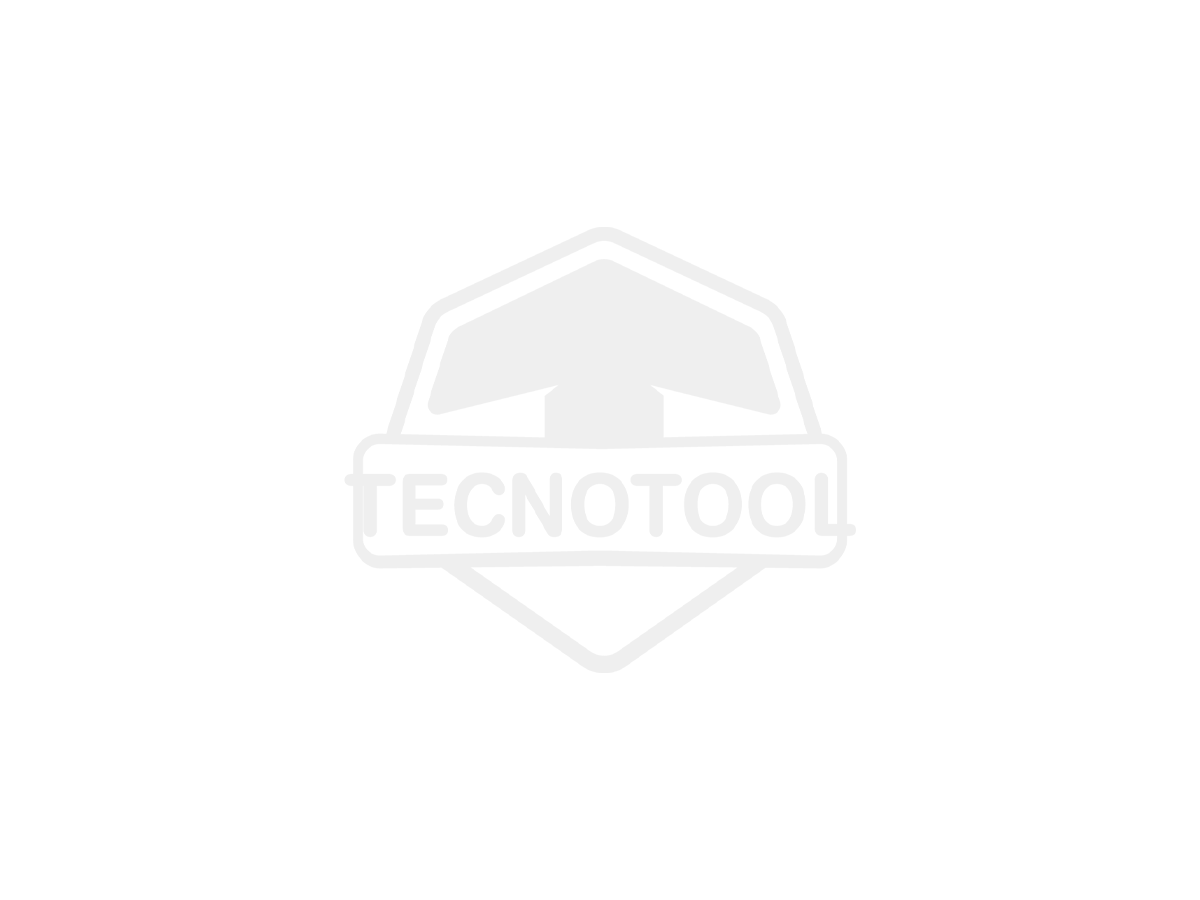
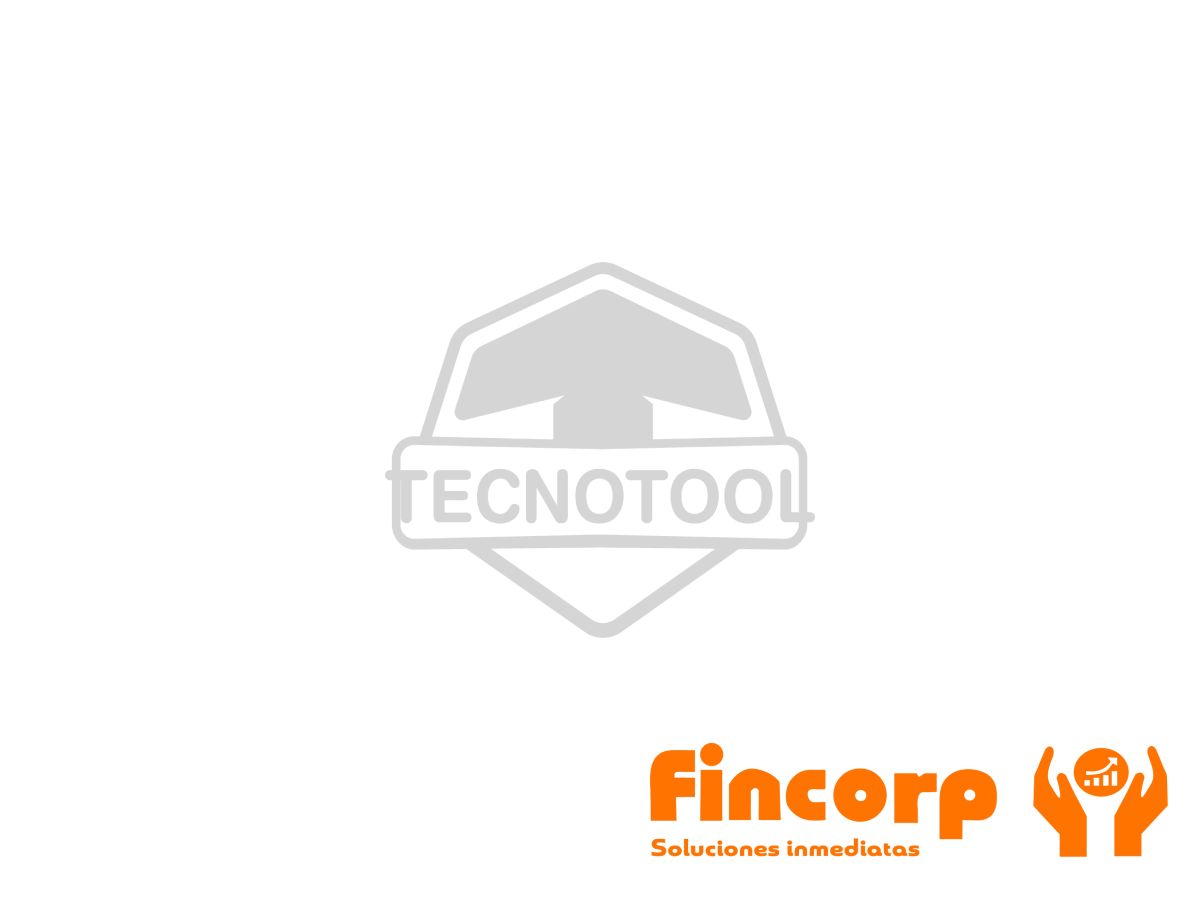
change details

Changed region(s): [[0.3083, 0.28, 0.6783, 0.7156], [0.5242, 0.8089, 0.8325, 0.9644], [0.8633, 0.8089, 0.9867, 0.9644]]

diff --git a/style.css b/style.css
@@ -1,5 +1,5 @@
 /*
-Theme Name: TecnoTool Basic Theme
+Theme Name: Fincorp S.A - Basic Theme
 Author: TecnoTool
 Author URI: https://tecnotool.com
 Description: 
